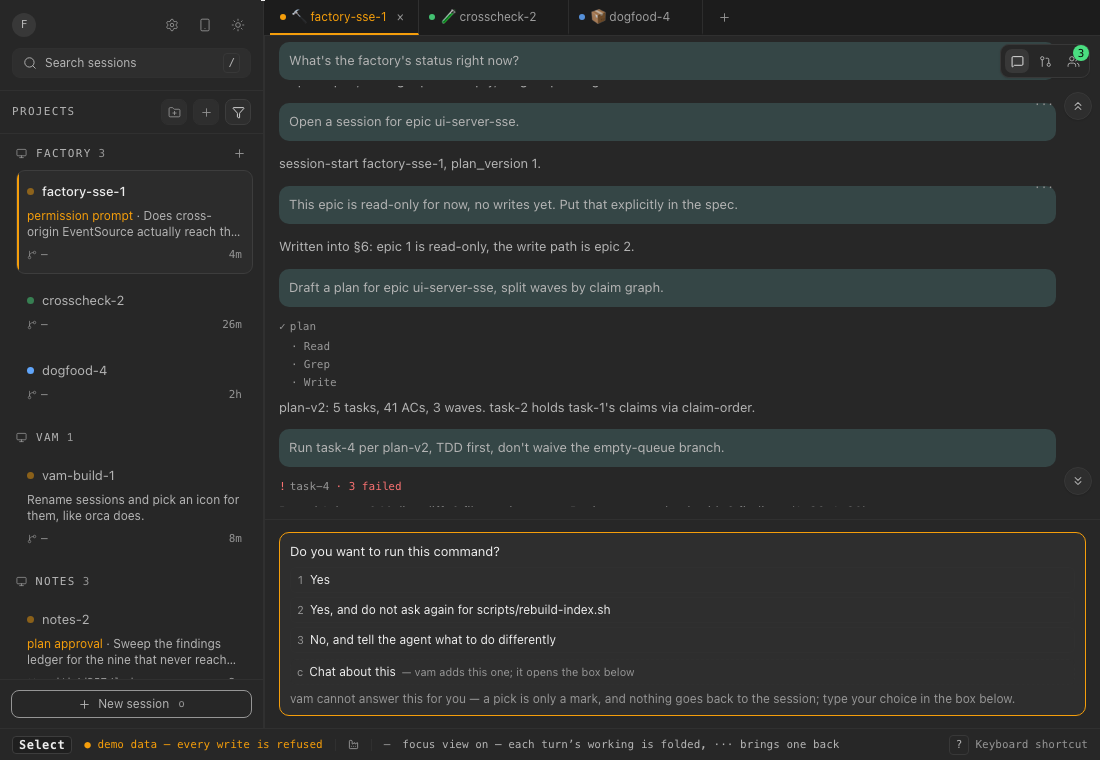
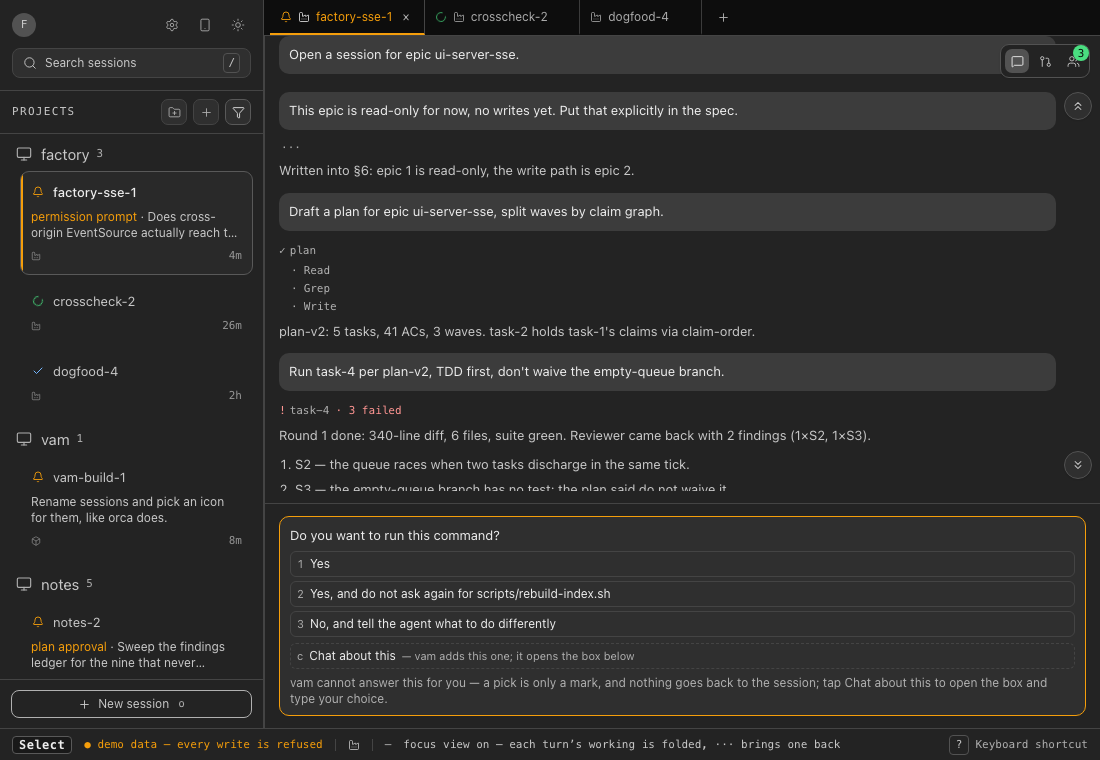
Draw the fold mark where the working was; give Agents the whole pane (#444)
Two paint fixes in the detail pane, both from the operator's screenshots.

The `···` that brings a folded turn's working back was absolutely
positioned in its article's top-right corner: a 24px box at x 1032..1056
with its top 4px above the article, over the sticky prompt bubble, which
reads as the previous turn's corner and is nowhere near the rows the fold
removed. It is in flow now, between the prompt block and the answer,
flush with the answer's left edge -- exactly where the progress region
stands when it is back -- and wears `-my-1.5` so the 24px box absorbs the
column's two 6px gaps: a stepless turn still folds 4px shorter (98.8 open,
94.8 folded), a turn with calls folds much shorter. Ink unchanged at
7.25:1; the corner, not the ink, was what made it hard to find.
`e2e/turn-steps-shots.mjs` now measures the rectangle per turn (below its
own prompt, above its own answer, at the answer's left, 24 square, 3:1)
with each turn scrolled into view so the sticky prompt is unstuck.

The Agents view was in the narrowed-column set, so its two-pane navigator
sat in an 890px column of a 1336px pane with a dead gutter either side. It
now opts out through `narrowsAsProse`, the same switch the Terminal uses,
and the question card follows the body's cap rather than the flag's so a
full-width navigator never sits over a capped card. `e2e/view-width-shots`
asserts the navigator spans the pane less its padding, the card spans it
[…]

diff --git a/src/renderer/panels/DetailPanel.tsx b/src/renderer/panels/DetailPanel.tsx
@@ -4705,41 +4705,54 @@ const TurnBlock = memo(function TurnBlock({
           data-turn-unfold={decision.id}
           onClick={() => onUnfold(decision.id)}
           aria-label={`show this turn's working — ${decision.label}`}
-          /* OUT OF FLOW, AND THAT IS THE WHOLE DESIGN RATHER THAN A DETAIL.
-             vam folds ONE line per turn, so a way back that takes a row of its
-             own gives the row straight back and the setting buys nothing --
-             measured, and `e2e/transcript-column-shots.mjs` caught exactly
-             that: "collapsed 959px vs shown 959px". So it is absolutely
-             positioned in the turn's own top-right corner (the `article` is
-             already `relative` for the sticky block) and costs no height at
-             all. Right rather than left: the prompt bubble and the answer both
-             start at the left edge, and `reserveCorner` only applies to the
-             newest turn, which focus view never folds.
+          /* IN FLOW, WHERE THE WORKING WAS -- and that is a reversal, so the
+             history is kept. The first cut put this OUT of flow, absolutely
+             positioned in the article's top-right corner, so that it cost no
+             height: vam then folded ONE line per turn, and a way back that
+             took a row of its own gave the row straight back
+             (`e2e/transcript-column-shots.mjs` caught exactly that:
+             "collapsed 959px vs shown 959px"). The operator's report on that
+             corner: "the three-dot mark for expanding progress steps is out
+             of place." Measured: a 24px box at x 1032..1056 with its top 4px
+             ABOVE its own article -- over the sticky prompt bubble, which a
+             reader takes for the PREVIOUS turn's corner, and nowhere near the
+             rows the fold removed.
 
-             A REAL 24x24 BOX RATHER THAN `vam-hit-24`, and the difference is
-             load-bearing here: that utility sets `position: relative` on the
-             element it grows, and being an unlayered rule it beats Tailwind's
-             layered `absolute` -- measured, the button came back
-             `position: relative` and the fold saved nothing. Out of flow, the
-             box costs no height anyway, so the hit area can simply BE the
-             element and the drawn mark stays small inside it.
+             SO IT STANDS EXACTLY WHERE THE PROGRESS REGION STANDS when it is
+             back: between the prompt block and the answer, flush with the
+             answer's left edge. An ellipsis means "something is elided HERE";
+             drawn there, the click replaces the mark with the working in
+             place rather than inserting rows somewhere else on the page.
+             Document order was already this (the button precedes the region,
+             `test/panels/DetailPanel.turn-progress.test.tsx` pins it); only
+             the paint disagreed.
+
+             AND IT STILL BUYS THE FOLD ITS HEIGHT. The 24px box wears
+             `-my-1.5`, which absorbs the column's 6px gap on each side: the
+             box runs from the prompt block's bottom to the answer's top and
+             costs 24px where the region it stands in for costs 28 -- a 16px
+             line and its 6px gap on either side -- plus every step row on
+             top of that. Measured: a stepless turn is 98.8px open and 94.8px
+             folded, so it still folds shorter, by 4px; a turn with twenty
+             calls folds a screen shorter. `e2e/transcript-column-shots.mjs` keeps
+             `collapsed < shown`, and `e2e/turn-steps-shots.mjs` measures the
+             rectangle: below its own prompt, above its own answer, at the
+             answer's left, 24 square, ink at 3:1 or better.
+
+             A REAL 24x24 BOX RATHER THAN `vam-hit-24`: that utility grows the
+             hit area with a pseudo-element, and in flow the box can simply
+             BE the element, the drawn mark small inside it.
 
              `ink-quiet`, not `ink-ghost` -- issue 201 ruled `ghost` out of
              anything that has to be READ, and on a folded turn this is the
-             only thing there is to read. */
+             only thing there is to read. Measured at 7.25:1 on the pane, the
+             same ink the step rows wear; the corner, not the ink, was what
+             made it hard to find. */
           /* `vam-tap` grows this to the phone's 44 (`styles.css`), which is a
              floor 24 does not meet -- five of these draw on one folded
              screen, and this is the ONLY route back to a folded turn's
-             working. Out of flow, so the extra box costs no height.
-
-             IT GROWS INWARD, AND THAT IS THE POINT. Anchored at `right-0`,
-             the 44 box ends where the 24 one did -- flush against the
-             `data-out-to-top` chevron's own 44px column at x=346, with no
-             overlap. Re-anchoring it outward to keep the mark still was
-             tried and measured: x=312..356 against a chevron at 346..390, so
-             two different actions shared 10px of hit area. A mark that moves
-             10px is a smaller cost than a tap that does the wrong thing. */
-          className={`vam-tap -top-1 absolute right-0 z-10 flex h-6 w-6 cursor-pointer items-center justify-center rounded font-mono text-ink-quiet text-meta leading-none hover:text-ink ${FOCUS_RING}`}
+             working. In flow, the same `-my-1.5` makes that 32px net. */
+          className={`vam-tap -my-1.5 flex h-6 w-6 flex-none cursor-pointer items-center justify-center self-start rounded font-mono text-ink-quiet text-meta leading-none hover:text-ink ${FOCUS_RING}`}
         >
           {/* The phone's other half: hit 44, PAINT 30, the pattern the view
               icons and the keystroke strip already use. On the desktop this
@@ -6798,11 +6811,15 @@ export function DetailPanel(props: DetailPanelProps) {
    */
   const proseMaxWidth = narrowViews ? narrowProseMaxWidth(proseAdvance) : undefined;
   /**
-   * The body's own, which is the same cap minus the two views that are not in
-   * it: the Terminal caps itself in `ch` (`narrowsAsProse`), and `FilesTab` is
+   * The body's own, which is the same cap minus the three views that are not
+   * in it: the Terminal caps itself in `ch` (`narrowsAsProse`), `FilesTab` is
    * a CHILD of the body, so a cap left on for it would narrow a tree the
-   * operator drags the width of themselves. The composer and the question card
-   * need no such test — both are already withdrawn on those two views.
+   * operator drags the width of themselves, and the Agents navigator is two
+   * panes that need the whole width. The composer needs no such test — it is
+   * drawn on Response only (`drawsComposer`). The question card DOES: it is
+   * drawn on Agents too, so it takes this value rather than `proseMaxWidth`,
+   * or a full-width navigator would sit over a capped card — the "column on
+   * top of chrome" mismatch the operator rejected on the first cut, inverted.
    */
   const bodyMaxWidth = narrowsAsProse(current) ? proseMaxWidth : undefined;
   /**
@@ -7200,12 +7217,14 @@ export function DetailPanel(props: DetailPanelProps) {
 
           A MAXIMUM AND NOTHING ELSE. `narrowsAsProse` decides which views it
           reaches: the Terminal caps itself in `ch` because eighty of its
-          characters is a COLUMN COUNT, and `FilesTab` — a child of this very
+          characters is a COLUMN COUNT, `FilesTab` — a child of this very
           element, always mounted and merely `hidden` — is not in the ask and
-          is the one view a second opinion about width would harm. The cap is
-          therefore keyed to the CURRENT view rather than put on unconditionally:
-          leaving it on while Files is up would narrow a tree the operator
-          drags the width of themselves.
+          is the one view a second opinion about width would harm, and the
+          Agents navigator is two panes side by side that the operator asked
+          to have the whole width. The cap is therefore keyed to the CURRENT
+          view rather than put on unconditionally: leaving it on while Files
+          is up would narrow a tree the operator drags the width of
+          themselves.
 
           `mx-auto` CENTRES IT, which is a choice and not a default. The cap
           exists to shorten the eye's return sweep; pinning the column against
@@ -8012,11 +8031,16 @@ export function DetailPanel(props: DetailPanelProps) {
              symmetry: `border-t` above draws the rule between the answer and
              the question, and a rule spanning the whole pane under a 470px
              column is a line pointing at nothing. Capped here, it is the
-             column's own seam. */
+             column's own seam.
+
+             THE BODY'S CAP, NOT THE FLAG'S. This card is also drawn on the
+             Agents view, which the flag does not cap (`narrowsAsProse`), and
+             the seam argument runs the other way there: a 890px card under a
+             1336px navigator is the same line pointing at nothing. */
           className={`flex flex-none flex-col gap-2.5 border-line border-t bg-pane px-3.5 py-3 ${
-            proseMaxWidth === undefined ? '' : 'mx-auto w-full'
+            bodyMaxWidth === undefined ? '' : 'mx-auto w-full'
           }`}
-          style={proseMaxWidth === undefined ? undefined : { maxWidth: proseMaxWidth }}
+          style={bodyMaxWidth === undefined ? undefined : { maxWidth: bodyMaxWidth }}
         >
           {/* The factory's governance queue — findings awaiting a waiver, and
             lesson candidates — used to stand here. The operator asked for it

diff --git a/test/panels/DetailPanel.view-width.test.tsx b/test/panels/DetailPanel.view-width.test.tsx
@@ -154,13 +154,16 @@ void ENTRY;
 void PROJECT;
 
 describe('the views one flag covers', () => {
-  it('is every tab except the Terminal, which caps itself, and Files, which is not in the ask', () => {
+  it('is Response and PRs: the Terminal caps itself, Files is not in the ask, Agents is two panes', () => {
     // The pin, stated once. Everything below derives from the predicate, so a
     // sixth tab cannot join the capped set by accident — and cannot escape it
     // by accident either.
-    expect(TABS.filter(narrowsAsProse)).toEqual(['Response', 'PRs', 'Agents']);
+    expect(TABS.filter(narrowsAsProse)).toEqual(['Response', 'PRs']);
     expect(narrowsAsProse('Terminal')).toBe(false);
     expect(narrowsAsProse('Files')).toBe(false);
+    // Operator, on the screenshot: "the Agents view in narrow mode also needs
+    // full width." It is a roster beside a detail, not a column of prose.
+    expect(narrowsAsProse('Agents')).toBe(false);
   });
 });
 
@@ -299,6 +302,19 @@ describe('with the flag on', () => {
     draw();
     layout(6.0079);
     expect(q<HTMLElement>('[data-composer-bar]')?.style.maxWidth ?? '').toBe('');
+  });
+
+  it('caps nothing while Agents is open — a roster beside a detail is not a column of prose', () => {
+    // The same opt-out the Terminal has, for the operator's stated reason,
+    // and the QUESTION CARD follows the body rather than the flag: a card
+    // still capped under a full-width navigator would be the "column on top
+    // of chrome" mismatch the operator rejected once already, inverted.
+    setActiveNarrowViews(true);
+    draw({}, [QUESTION]);
+    layout(6.0079);
+    open('Agents');
+    expect(body().style.maxWidth).toBe('');
+    expect(q<HTMLElement>('[data-question-bar]')?.style.maxWidth ?? '').toBe('');
   });
 
   it('caps nothing while the Terminal is open — that tab measures in columns, not pixels', () => {

diff --git a/src/renderer/panels/tabs.ts b/src/renderer/panels/tabs.ts
@@ -48,8 +48,8 @@ export type Tab = (typeof TABS)[number];
  * to `TABS` has to be classified once, here, instead of silently inheriting
  * whichever answer the `!==` chain at the call site happened to give it.
  *
- * TWO NAMES SAY NO, FOR TWO DIFFERENT REASONS, and neither of them is "it is
- * not prose":
+ * THREE NAMES SAY NO, FOR THREE DIFFERENT REASONS, and none of them is "it
+ * is not prose":
  *
  *  - `Terminal` IS covered by the same setting -- one flag, one promise of
  *    eighty characters a line (`prefs/view-width.ts`) -- but it caps ITSELF,
@@ -61,9 +61,21 @@ export type Tab = (typeof TABS)[number];
  *    share of the pane and its editor's column is the operator's own drag.
  *    It also shares the capped element (always mounted, merely `hidden`), so
  *    a cap left on for it would narrow a tree nobody asked to narrow.
+ *  - `Agents` was in the capped set, and the operator reversed it on a
+ *    screenshot: "the Agents view in narrow mode also needs full width." It
+ *    is a two-pane navigator -- the roster on the left, the picked agent's
+ *    In/Out on the right (`AGENT_SPLIT_PX`) -- and a cap meant to shorten a
+ *    line of prose was confining both panes to a 890px column in a 1336px
+ *    pane, with a dead gutter either side. The cap answers "how long should
+ *    a line be"; this view's question is "how much room do two panes get",
+ *    which is the Terminal's question, and it gets the Terminal's answer:
+ *    the whole pane. The question card follows the body here
+ *    (`DetailPanel`'s `bodyMaxWidth`), so a card still capped under a
+ *    full-width navigator cannot recreate the mismatch the operator
+ *    rejected on the first cut.
  */
 export function narrowsAsProse(tab: Tab): boolean {
-  return tab !== 'Terminal' && tab !== 'Files';
+  return tab !== 'Terminal' && tab !== 'Files' && tab !== 'Agents';
 }
 
 /**

diff --git a/test/panels/DetailPanel.turn-progress.test.tsx b/test/panels/DetailPanel.turn-progress.test.tsx
@@ -318,6 +318,31 @@ describe('folded activity stays one click away', () => {
     });
   });
 
+  it('stands where the working stood: after the prompt, before the answer', () => {
+    // THE OPERATOR'S REPORT: "the three-dot mark for expanding progress steps
+    // is out of place." It was drawn out of flow in the turn's top-right
+    // corner, over the prompt bubble -- which reads as the PREVIOUS turn's
+    // corner, and put the way back where nothing folded had ever been. An
+    // ellipsis means "something is elided HERE", so it goes exactly where the
+    // progress region goes when it is back: between the prompt and its
+    // answer, in document order -- which is also the order a screen reader
+    // announces the turn in. `e2e/turn-steps-shots.mjs` measures the
+    // rectangle; this holds the order.
+    inMode('collapsed', () => {
+      draw([turn('a'), turn('b')]);
+      for (const control of unfolds()) {
+        const article = control.closest('[data-column-turn]') as HTMLElement;
+        const prompt = article.querySelector('[data-detail-block="in"]') as HTMLElement;
+        const answer = article.querySelector('[data-detail-block="out"]') as HTMLElement;
+        const follows = (a: Element, b: Element) =>
+          (a.compareDocumentPosition(b) & Node.DOCUMENT_POSITION_FOLLOWING) !== 0;
+        expect(follows(prompt, control), 'the way back comes after the prompt').toBe(true);
+        expect(follows(control, answer), 'and before the answer').toBe(true);
+      }
+      expect(unfolds()).toHaveLength(2);
+    });
+  });
+
   it('takes its own control away once the working is back', () => {
     // A control offering to restore something already on screen is a control
     // that does nothing -- the same defect as one that cannot act.
